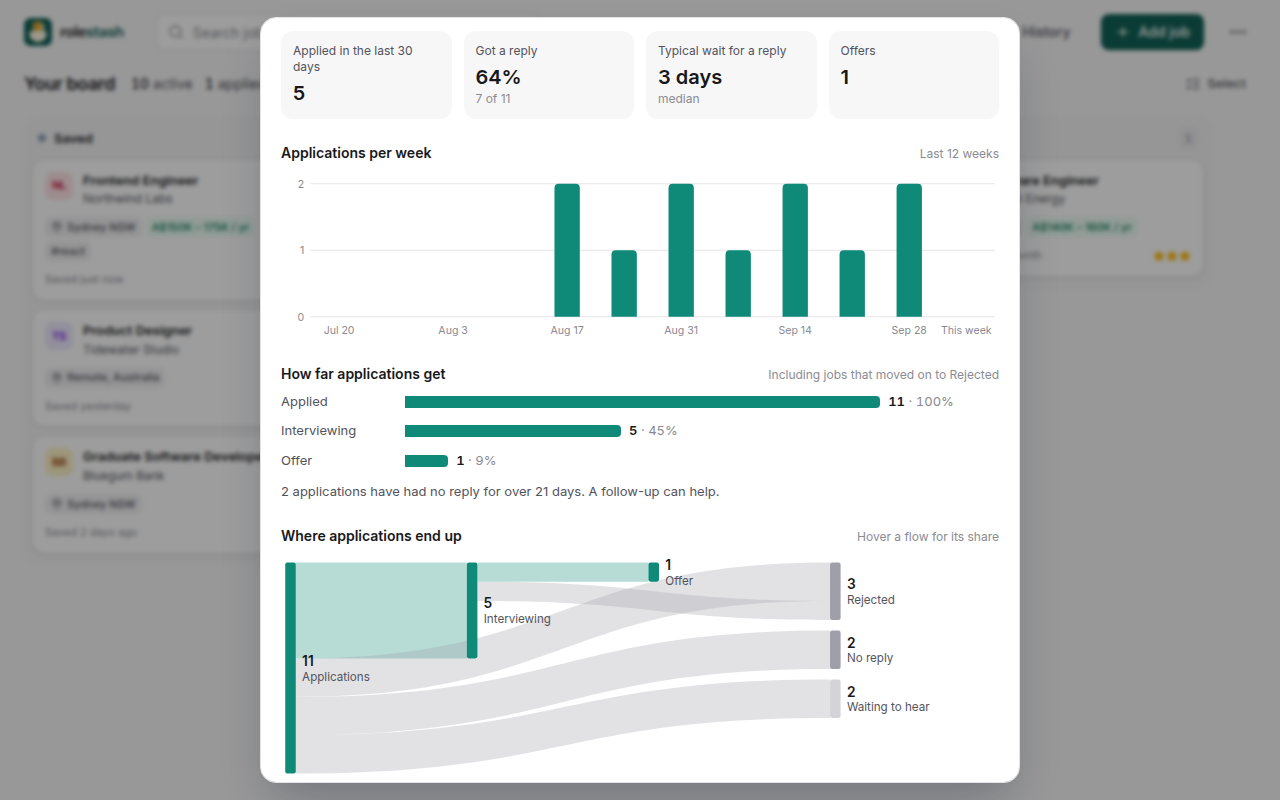
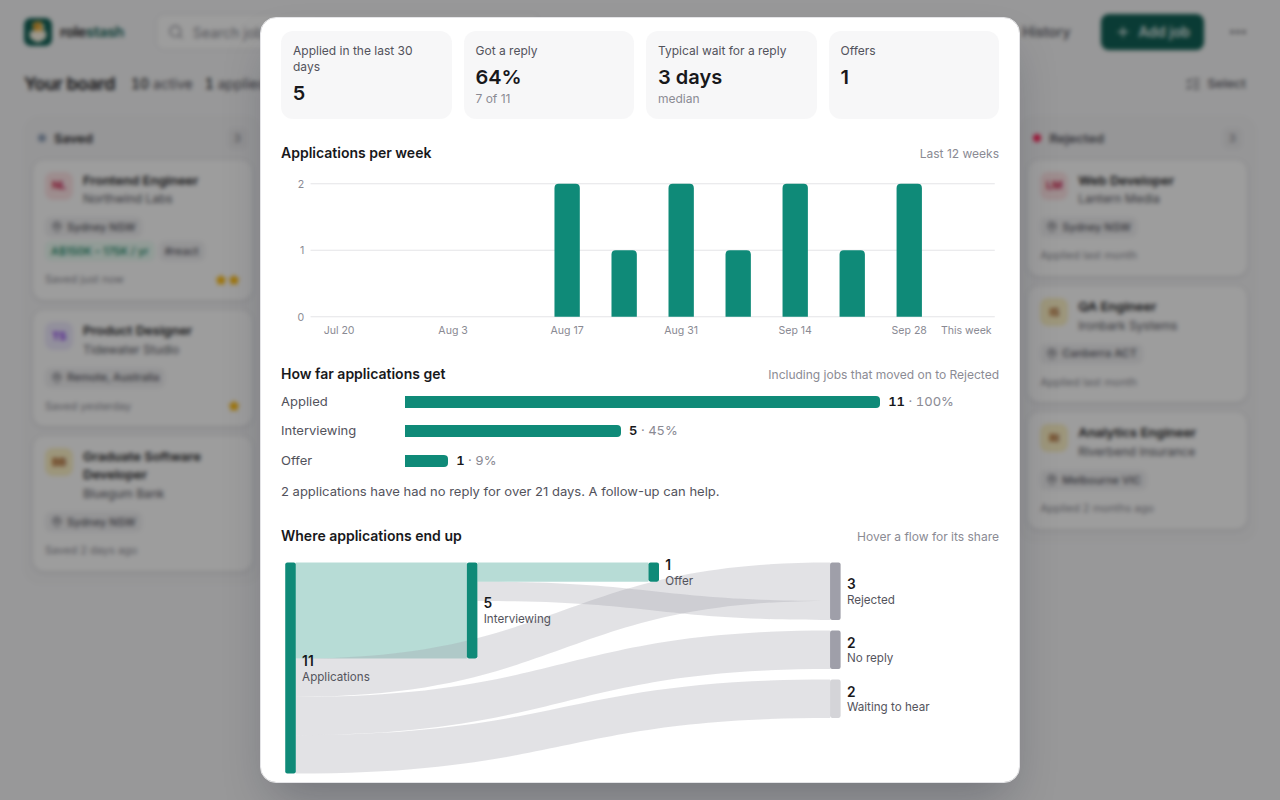
store: five-lane screenshots and listing line for 0.6.1

diff --git a/store/listing.md b/store/listing.md
@@ -31,7 +31,7 @@ SAVE, APPLY AND TRACK WITHOUT LEAVING THE PAGE
 • Found the same role on two sites? It stays one card.
 
 ONE BOARD FOR THE WHOLE SEARCH
-• Drag cards from Saved to Applied, Interviewing and Offer.
+• Drag cards from Saved to Applied, Interviewing, Offer and Rejected.
 • Notes, tags, priorities and a timeline of every move.
 • Closing dates and follow-ups surface before they slip.
 • Export to CSV or JSON at any time, on every plan.
